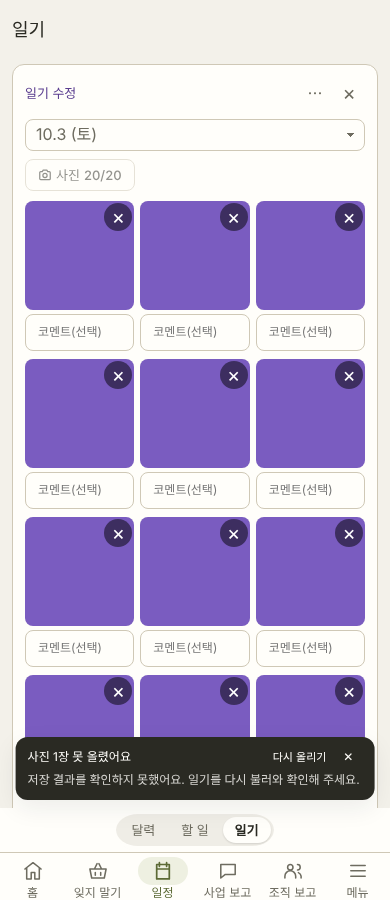
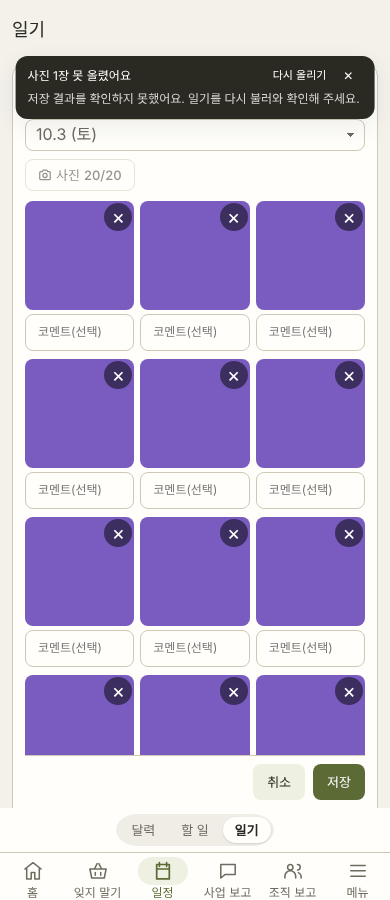
[S59-21] 일기 쓰기 칸에서도 아래 한 줄이 [저장]을 가리지 않게 · 자료실 취소 끝 알림 시험 글을 실제 글로
CI shard 14 diary '21장째…': 일기 쓰기 칸(창이 아닌 화면 칸)이 열린 채 못 올린 알림이 [저장] 위에 떠 누르기를 막았다 —
창과 같게 위쪽 작은 알림 자리로 올린다(시험에 '[저장]을 가리지 않는다' 확인 추가).
CI shard 7 upload-progress-places: 시험이 둘째 줄로 나눈 글을 기대했으나 자료실 끝 알림은 예전 글 그대로('1개 완료 · 1개 미완료. 올리기를 취소했어요.') — 시험을 실제 글로.

Claude-Session: https://claude.ai/code/session_01QdB5NLfeUD2xR8Y54H1YA3

Changed region(s): [[0.0308, 0.8089, 0.9846, 0.9022], [0.0308, 0.0622, 0.9846, 0.1556]]

diff --git a/app/ui-standard.css b/app/ui-standard.css
@@ -1740,10 +1740,10 @@ button.icon-btn.up-x{ position:relative; width:var(--ds-compact-height-sm,28px);
 /* ③ 하단바 위 한 줄: 올리는 줄이 보이는 화면이 없을 때만(다른 화면·창 닫음). 폰은 하단 탭 위, PC는 화면 아래 가운데. */
 #uploadDock{ position:fixed; left:50%; transform:translateX(-50%); bottom:calc(var(--kptu-mobile-tab-height,0px) + var(--kptu-switch-dock,0px) + var(--up-dock-lift,0px) + env(safe-area-inset-bottom,0px) + 8px); z-index:95; box-sizing:border-box; width:min(92vw,360px); padding:6px 12px; border-radius:var(--ds-radius-box,10px); background:var(--kptu-ink); color:var(--kptu-surface); font-size:var(--ds-text-meta,12px); box-shadow:var(--kptu-shadow-float); }
 #uploadDock[hidden]{ display:none; }
-/* UX-알림하나로(S59-21): 위에 뜬 창(.modal — 칸에 붙인 role=region은 빼고)이 열려 있으면 이 한 줄은 위쪽 작은 알림 자리로 올라간다.
+/* UX-알림하나로(S59-21): 위에 뜬 창(.modal — 칸에 붙인 role=region은 빼고)이나 일기 쓰기 칸이 열려 있으면 이 한 줄은 위쪽 작은 알림 자리로 올라간다.
    못 올린 알림은 누를 때까지 남으므로, 아래에 두면 창의 [저장]·[등록] 같은 아래 단추를 가린다(폰 아래 시트). 작은 알림이 함께 떠 있으면 그 아래. */
-body:has(.modal:not(.hidden):not([role="region"])) #uploadDock{ top:var(--kptu-notice-top); bottom:auto; }
-body:has(.modal:not(.hidden):not([role="region"])):has(#kptuNotice:not([hidden]), #toast:not(.hidden)) #uploadDock{ top:calc(var(--kptu-notice-top) + 44px); }
+body:has(.modal:not(.hidden):not([role="region"]), #appView .view-panel:not(.hidden) [data-diary-editor]:not([hidden])) #uploadDock{ top:var(--kptu-notice-top); bottom:auto; }
+body:has(.modal:not(.hidden):not([role="region"]), #appView .view-panel:not(.hidden) [data-diary-editor]:not([hidden])):has(#kptuNotice:not([hidden]), #toast:not(.hidden)) #uploadDock{ top:calc(var(--kptu-notice-top) + 44px); }
 #uploadDock .up-dock-head{ display:flex; align-items:center; gap:8px; min-height:var(--ds-compact-height-sm,28px); }
 #uploadDock .up-dock-text{ flex:1; min-width:0; white-space:nowrap; overflow:hidden; text-overflow:ellipsis; }
 /* UX-알림하나로(S59-21): 못 올린 알림은 까닭까지 읽히게 줄을 넘긴다(자료실 등록·끌어 놓기의 '1개 완료 · 1개 미완료. 까닭' 같은 긴 글). */
